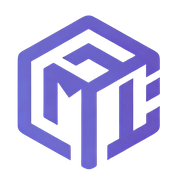
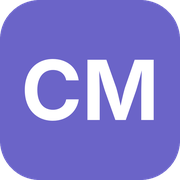
Rename site to Case Method for Financial Planning
Update the brand config, page title, access-code screen, footer and logo
alt texts, and replace the logo, mark, favicon and apple icon with a new
wordmark. Skill-download strings that refer to the upstream OpenMAIC
project are unchanged.

Claude-Session: https://claude.ai/code/session_01EUkGkNA8dTWNX3WjMYkPDK

diff --git a/app/page.tsx b/app/page.tsx
@@ -834,7 +834,7 @@ function HomePage() {
         <div className="relative" data-pro-morph="lockup">
           <motion.img
             src="/logo-horizontal.png"
-            alt="OpenMAIC"
+            alt="Case Method for Financial Planning"
             initial={heroEnter({ opacity: 0, scale: 0.9 })}
             animate={{ opacity: 1, scale: 1 }}
             transition={{
@@ -1346,7 +1346,7 @@ function HomePage() {
 
       {/* Footer — flows with content, at the very end */}
       <div className="mt-auto pt-12 pb-4 text-center text-xs text-muted-foreground/40">
-        OpenMAIC Open Source Project
+        Case Method for Financial Planning · built on the OpenMAIC open-source project
       </div>
     </div>
   );

diff --git a/tests/lib/brand/brand-config.test.ts b/tests/lib/brand/brand-config.test.ts
@@ -2,9 +2,9 @@ import { describe, expect, it } from 'vitest';
 import { DEFAULT_BRAND } from '@/lib/brand/brand-config';
 
 describe('DEFAULT_BRAND (single-brand build)', () => {
-  it('uses the original product identity for full chrome', () => {
-    expect(DEFAULT_BRAND.productName).toBe('OpenMAIC');
-    expect(DEFAULT_BRAND.shortName).toBe('OpenMAIC');
+  it('uses the site's product identity for full chrome', () => {
+    expect(DEFAULT_BRAND.productName).toBe('Case Method for Financial Planning');
+    expect(DEFAULT_BRAND.shortName).toBe('Case Method');
     expect(DEFAULT_BRAND.markSrc).toBe('/openmaic-mark.png');
     expect(DEFAULT_BRAND.themeColor).toBe('#722ed1');
   });

diff --git a/components/stage/scene-sidebar.tsx b/components/stage/scene-sidebar.tsx
@@ -131,7 +131,7 @@ export function SceneSidebar({
             className="flex items-center gap-2 cursor-pointer rounded-lg px-1.5 -mx-1.5 py-1 -my-1 hover:bg-gray-100/80 dark:hover:bg-gray-800/60 active:scale-[0.97] transition-all duration-150"
             title={t('generation.backToHome')}
           >
-            <img src="/logo-horizontal.png" alt="OpenMAIC" className="h-6" />
+            <img src="/logo-horizontal.png" alt="Case Method for Financial Planning" className="h-6" />
           </button>
           <button
             onClick={() => onCollapseChange(true)}

diff --git a/components/scene-renderers/pbl/v2/workspace.tsx b/components/scene-renderers/pbl/v2/workspace.tsx
@@ -443,7 +443,7 @@ function WorkspaceTopBar({
         <div className="flex h-9 w-9 shrink-0 items-center justify-center rounded-xl border border-violet-200/25 bg-violet-100/[0.08] shadow-[0_0_24px_rgba(157,140,255,0.18)]">
           <Image
             src="/openmaic-mark.png"
-            alt="OpenMAIC"
+            alt="Case Method for Financial Planning"
             width={28}
             height={28}
             className="h-6 w-6"

diff --git a/lib/brand/brand-config.ts b/lib/brand/brand-config.ts
@@ -25,8 +25,8 @@ export interface BrandConfig {
 
 /** The default brand: the product itself, with no vendor overrides. */
 export const DEFAULT_BRAND: BrandConfig = {
-  productName: 'OpenMAIC',
-  shortName: 'OpenMAIC',
+  productName: 'Case Method for Financial Planning',
+  shortName: 'Case Method',
   logoSrc: '/logo-horizontal.png',
   logoHasWordmark: true,
   markSrc: '/openmaic-mark.png',

diff --git a/app/layout.tsx b/app/layout.tsx
@@ -29,7 +29,7 @@ import { ProSwapWatcher } from '@/components/workbench/ProSwapWatcher';
 import '@fontsource-variable/inter';
 
 export const metadata: Metadata = {
-  title: 'OpenMAIC',
+  title: 'Case Method for Financial Planning',
   description:
     'The open-source AI interactive classroom. Upload a PDF to instantly generate an immersive, multi-agent learning experience.',
 };

diff --git a/components/access-code-modal.tsx b/components/access-code-modal.tsx
@@ -118,7 +118,7 @@ export function AccessCodeModal({ open, onSuccess }: AccessCodeModalProps) {
                 animate={{ opacity: 1 }}
                 transition={{ delay: 0.25, duration: 0.4 }}
               >
-                OpenMAIC
+                Case Method for Financial Planning
               </motion.p>
 
               {/* Form */}
